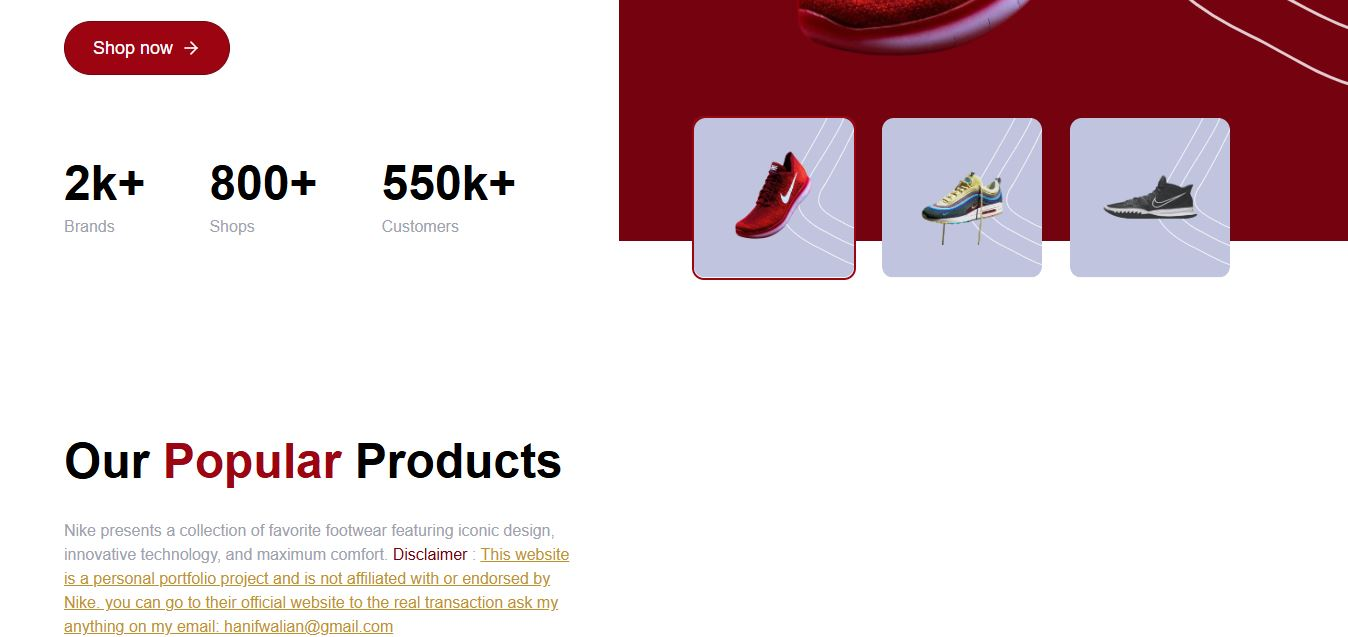
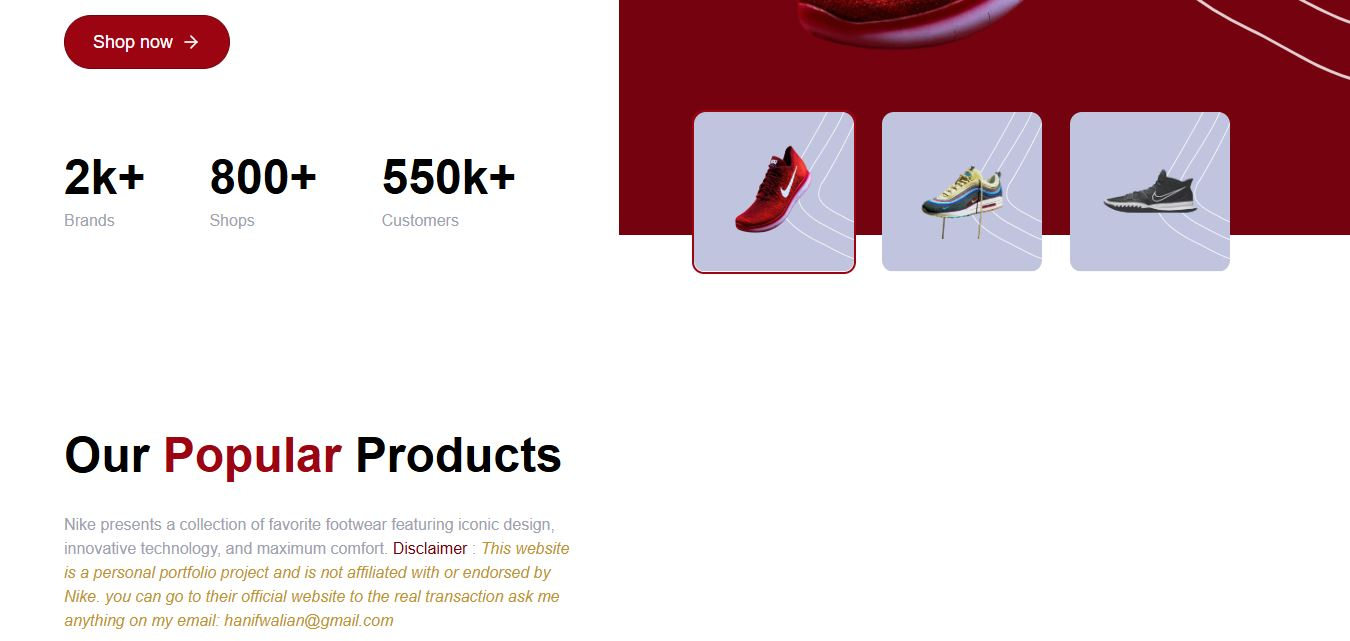
adjust documentations

diff --git a/src/sections/PopularProducts.jsx b/src/sections/PopularProducts.jsx
@@ -12,8 +12,8 @@ const PopularProducts = () => {
                 <h2 className="text-4xl font-palanquin font-bold">Our <span className="text-red">Popular</span> Products</h2>
                 <p className="lg:max-w-lg mt-2 font-montserrat text-gray-400">
                     Nike presents a collection of favorite footwear featuring iconic design, innovative technology, and 
-                    maximum comfort. <span className="text-blood">Disclaimer</span> : <span className="text-golden underline">This website is a personal portfolio project and is not affiliated with or endorsed 
-                    by Nike. you can go to their official website to the real transaction ask my anything on my email: 
+                    maximum comfort. <span className="text-blood">Disclaimer</span> : <span className="text-golden italic">This website is a personal portfolio project and is not affiliated with or endorsed 
+                    by Nike. you can go to their official website to the real transaction ask me anything on my email: 
                     hanifwalian@gmail.com
                     </span>
                 </p>
